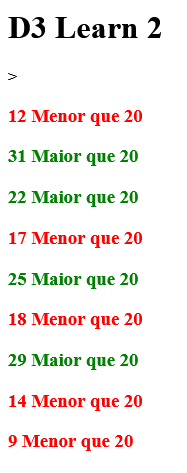
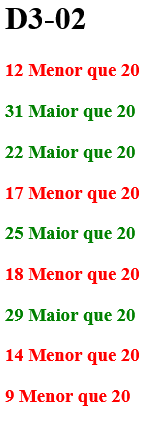
Fix html/images

diff --git a/D3-02.html b/D3-02.html
@@ -1,33 +1,33 @@
 <html>
-    <body>
-        <h1>D3 Learn 2</h1>>
+  <title>D3-02</title>
+  <body>
+    <h1>D3-02</h1>
 
-        <script src="https://d3js.org/d3.v7.min.js"></script>
-
-        <script>
-
-            const dataset = [12, 31, 22, 17, 25, 18, 29, 14, 9];
+    <script src="https://d3js.org/d3.v7.min.js"></script>
+    
+    <script>
+      const dataset = [12, 31, 22, 17, 25, 18, 29, 14, 9];
+  
+      d3.select("body").selectAll("h3")
+        .data(dataset)
+        .enter()
+        .append("h3")
+        .text((d) => {
+          if (d > 20){
+              return  d + ' Maior que 20'
+          }
+          else{
+              return  d + ' Menor que 20'
+          }
+        })
+        .style("color", (d) => {
+          if (d > 20){
+              return 'green'
+          }
+          else{
+              return 'red'
+          }
+        });
         
-            d3.select("body").selectAll("h3")
-              .data(dataset)
-              .enter()
-              .append("h3")
-              .text((d) => {
-                if (d > 20){
-                    return  d + ' Maior que 20'
-                }
-                else{
-                    return  d + ' Menor que 20'
-                }
-            })
-            .style("color", (d) => {
-                if (d > 20){
-                    return 'green'
-                }
-                else{
-                    return 'red'
-                }
-            });
-
-          </script>
-    </body>
+    </script>
+  </body>

diff --git a/D3-05.html b/D3-05.html
@@ -1,0 +1,36 @@
+<html>
+    <body>
+        <h1>D3 ScatterPlot</h1>>
+        <script src="https://d3js.org/d3.v7.min.js"></script>
+        <script>
+            const dataset = [
+                          [ 34,    78 ],
+                          [ 109,   280 ],
+                          [ 310,   120 ],
+                          [ 79,    411 ],
+                          [ 420,   220 ],
+                          [ 233,   145 ],
+                          [ 333,   96 ],
+                          [ 222,   333 ],
+                          [ 78,    320 ],
+                          [ 21,    123 ]
+                        ];
+        
+        
+            const w = 500;
+            const h = 500;
+        
+            const svg = d3.select("body")
+                          .append("svg")
+                          .attr("width", w)
+                          .attr("height", h);
+        
+            svg.selectAll("circle")
+               // Add your code below this line
+        
+        
+        
+               // Add your code above this line
+        
+          </script>
+    </body>

diff --git a/D3-04.html b/D3-04.html
@@ -1,11 +1,14 @@
-<style>
-    .bar:hover {
-      fill: brown;
-    }
-</style>
-
-<body>
+<html>
+  <title>D3-04</title>
+  <style>
+      .bar:hover {
+        fill: brown;
+      }
+  </style>
+  <body>
+    <h1>D3-04</h1>
     <script src="https://d3js.org/d3.v7.min.js"></script>
+    
     <script>
       const dataset = [12, 31, 22, 17, 25, 18, 29, 14, 9];
   
@@ -17,7 +20,6 @@
                     .attr("width", w)
                     .attr("height", h);
   
-
       svg.selectAll("rect")
          .data(dataset)
          .enter()
@@ -36,7 +38,6 @@
          .attr('class', 'bar') //Set class
          .append('title') // Tooltip
          .text((d) => d);
-
       
       svg.selectAll("text")
          .data(dataset)
@@ -46,6 +47,6 @@
          .attr("y", (d, i) => h - (d * 3) - 3)
          .text((d) => d)
          .style("font-size", "25px");
-    
+
     </script>
   </body>

diff --git a/D3-03.html b/D3-03.html
@@ -1,4 +1,6 @@
-<style>
+<html>
+  <title>D3-03</title>
+  <style>
     .bar {
       width: 25px;
       height: 100px;
@@ -8,10 +10,13 @@
     }
   </style>
   <body>
+    <h1>D3-03</h1>
+
     <script src="https://d3js.org/d3.v7.min.js"></script>
+
     <script>
       const dataset = [12, 31, 22, 17, 25, 18, 29, 14, 9];
-  
+
       d3.select("body").selectAll("div")
         .data(dataset)
         .enter()
@@ -19,13 +24,13 @@
         .attr("class", "bar")
         .style('height',(d) => d*10)
         .style('background-color', (d) => {
-            if (d > 20){
-                return 'green'
-            }
-            else{
-                return 'red'
-            }
-        })
+          if (d > 20){
+              return 'green'
+          }
+          else{
+              return 'red'
+          }
+        });
 
     </script>
   </body>

diff --git a/D3-01.html b/D3-01.html
@@ -1,15 +1,19 @@
 <html>
-    <body>
-        <h1>D3 Learn 1</h1>>
-        <script src="https://d3js.org/d3.v7.min.js"></script>
-        <script>
-            const dataset = [12, 31, 22, 17, 25, 18, 29, 14, 9];
-        
-            d3.select("body").selectAll("h3")
-              .data(dataset)
-              .enter()
-              .append("h3")
-              .text((d,i) => d);
+  <title>D3-01</title>
+  <body>
+    <h1>D3-01</h1>
 
-          </script>
-    </body>
+    <script src="https://d3js.org/d3.v7.min.js"></script>
+
+    <script>
+      const dataset = [12, 31, 22, 17, 25, 18, 29, 14, 9];
+    
+      d3.select("body").selectAll("h3")
+        .data(dataset)
+        .enter()
+        .append("h3")
+        .text((d,i) => d);
+        
+    </script>
+
+  </body>
